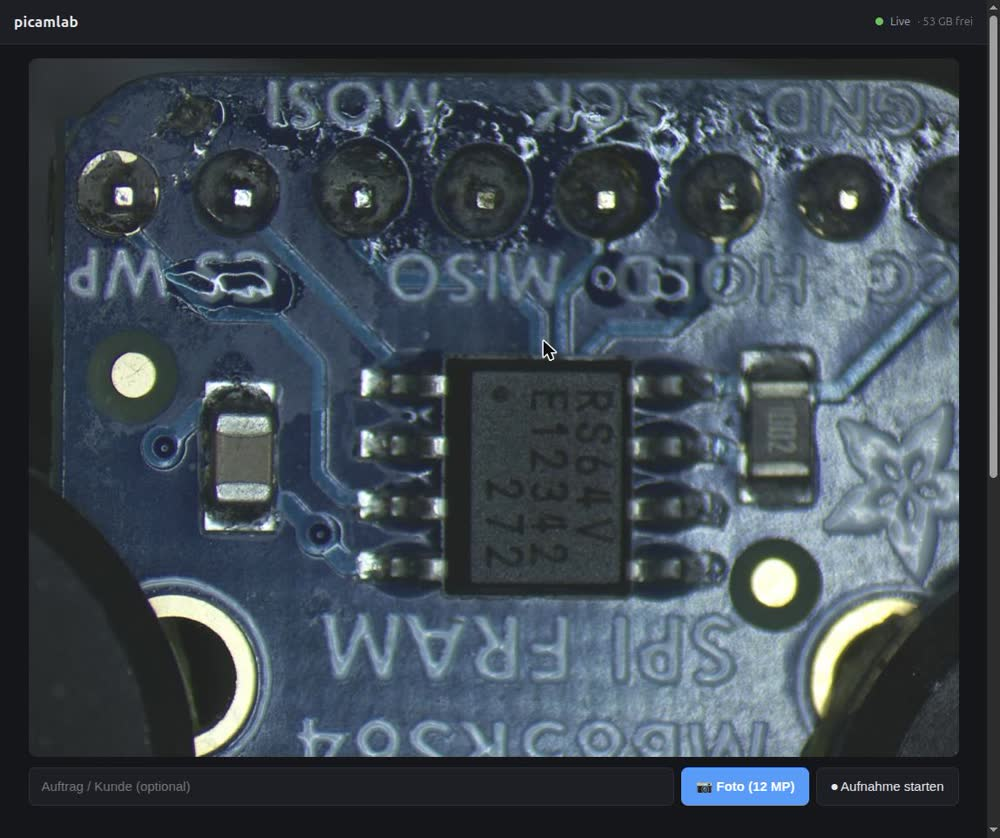
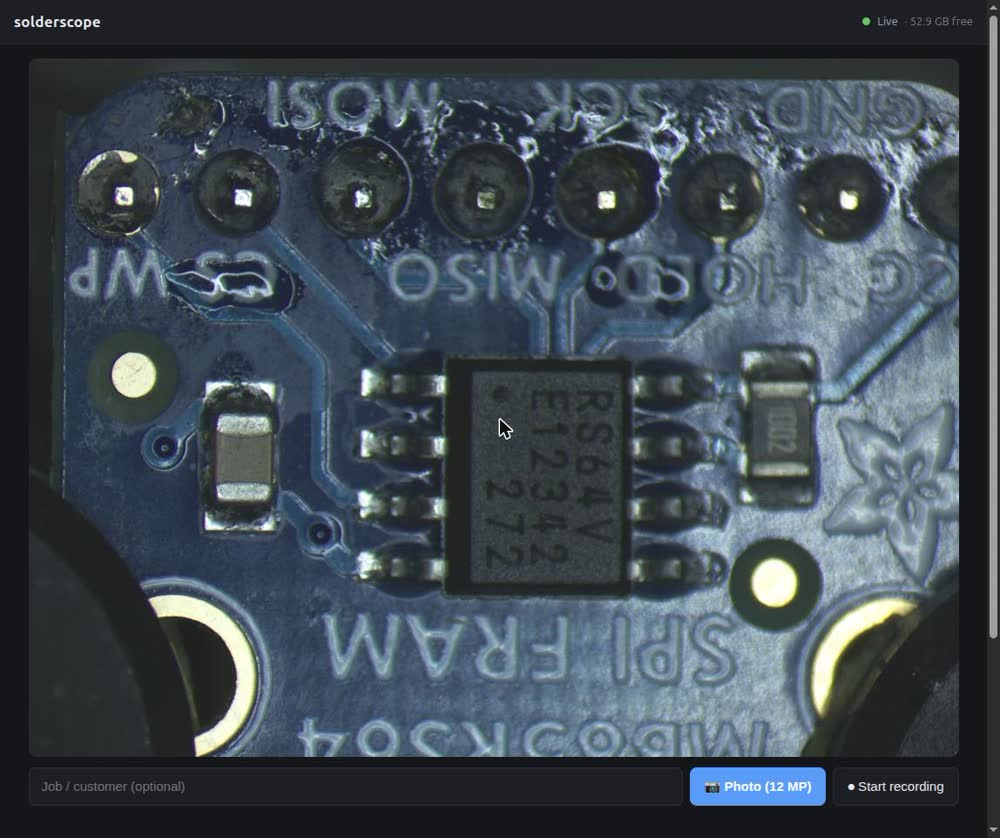
Retake screenshots with the English UI
The old ones still showed German labels and the previous project name. Also
renamed the files themselves, since two carried German names.

The sample images now use realistic job names (Board-A7-before/after,
QC-2291-pad-inspection) instead of test captures, and the annotated example
shows the fixed shading and arrow heads.

diff --git a/README.md b/README.md
@@ -28,7 +28,7 @@ actual work happens through the binocular; the stream is there to document it.
 
 Every capture in one place, with size, timestamp, download and delete:
 
-![Gallery of photos and videos](docs/screenshots/02-galerie.jpg)
+![Gallery of photos and videos](docs/screenshots/02-gallery.jpg)
 
 Clicking an image opens the annotation editor, here with text, an ellipse, an
 arrow and numbered callouts:
@@ -37,7 +37,7 @@ arrow and numbered callouts:
 
 Cropping down to what matters. Existing annotations move with the crop:
 
-![Cropping inside the editor](docs/screenshots/04-zuschneiden.jpg)
+![Cropping inside the editor](docs/screenshots/04-crop.jpg)
 
 The finished result, as the customer receives it:
 
@@ -74,7 +74,7 @@ The finished result, as the customer receives it:
 
 ### The build
 
-<!-- Photo of the setup: docs/screenshots/00-aufbau.jpg -->
+<!-- Photo of the setup: docs/screenshots/00-build.jpg -->
 *(Photo of the full setup to follow.)*
 
 The HQ Camera and the Pi Zero 2 W share a single 3D printed enclosure with a
